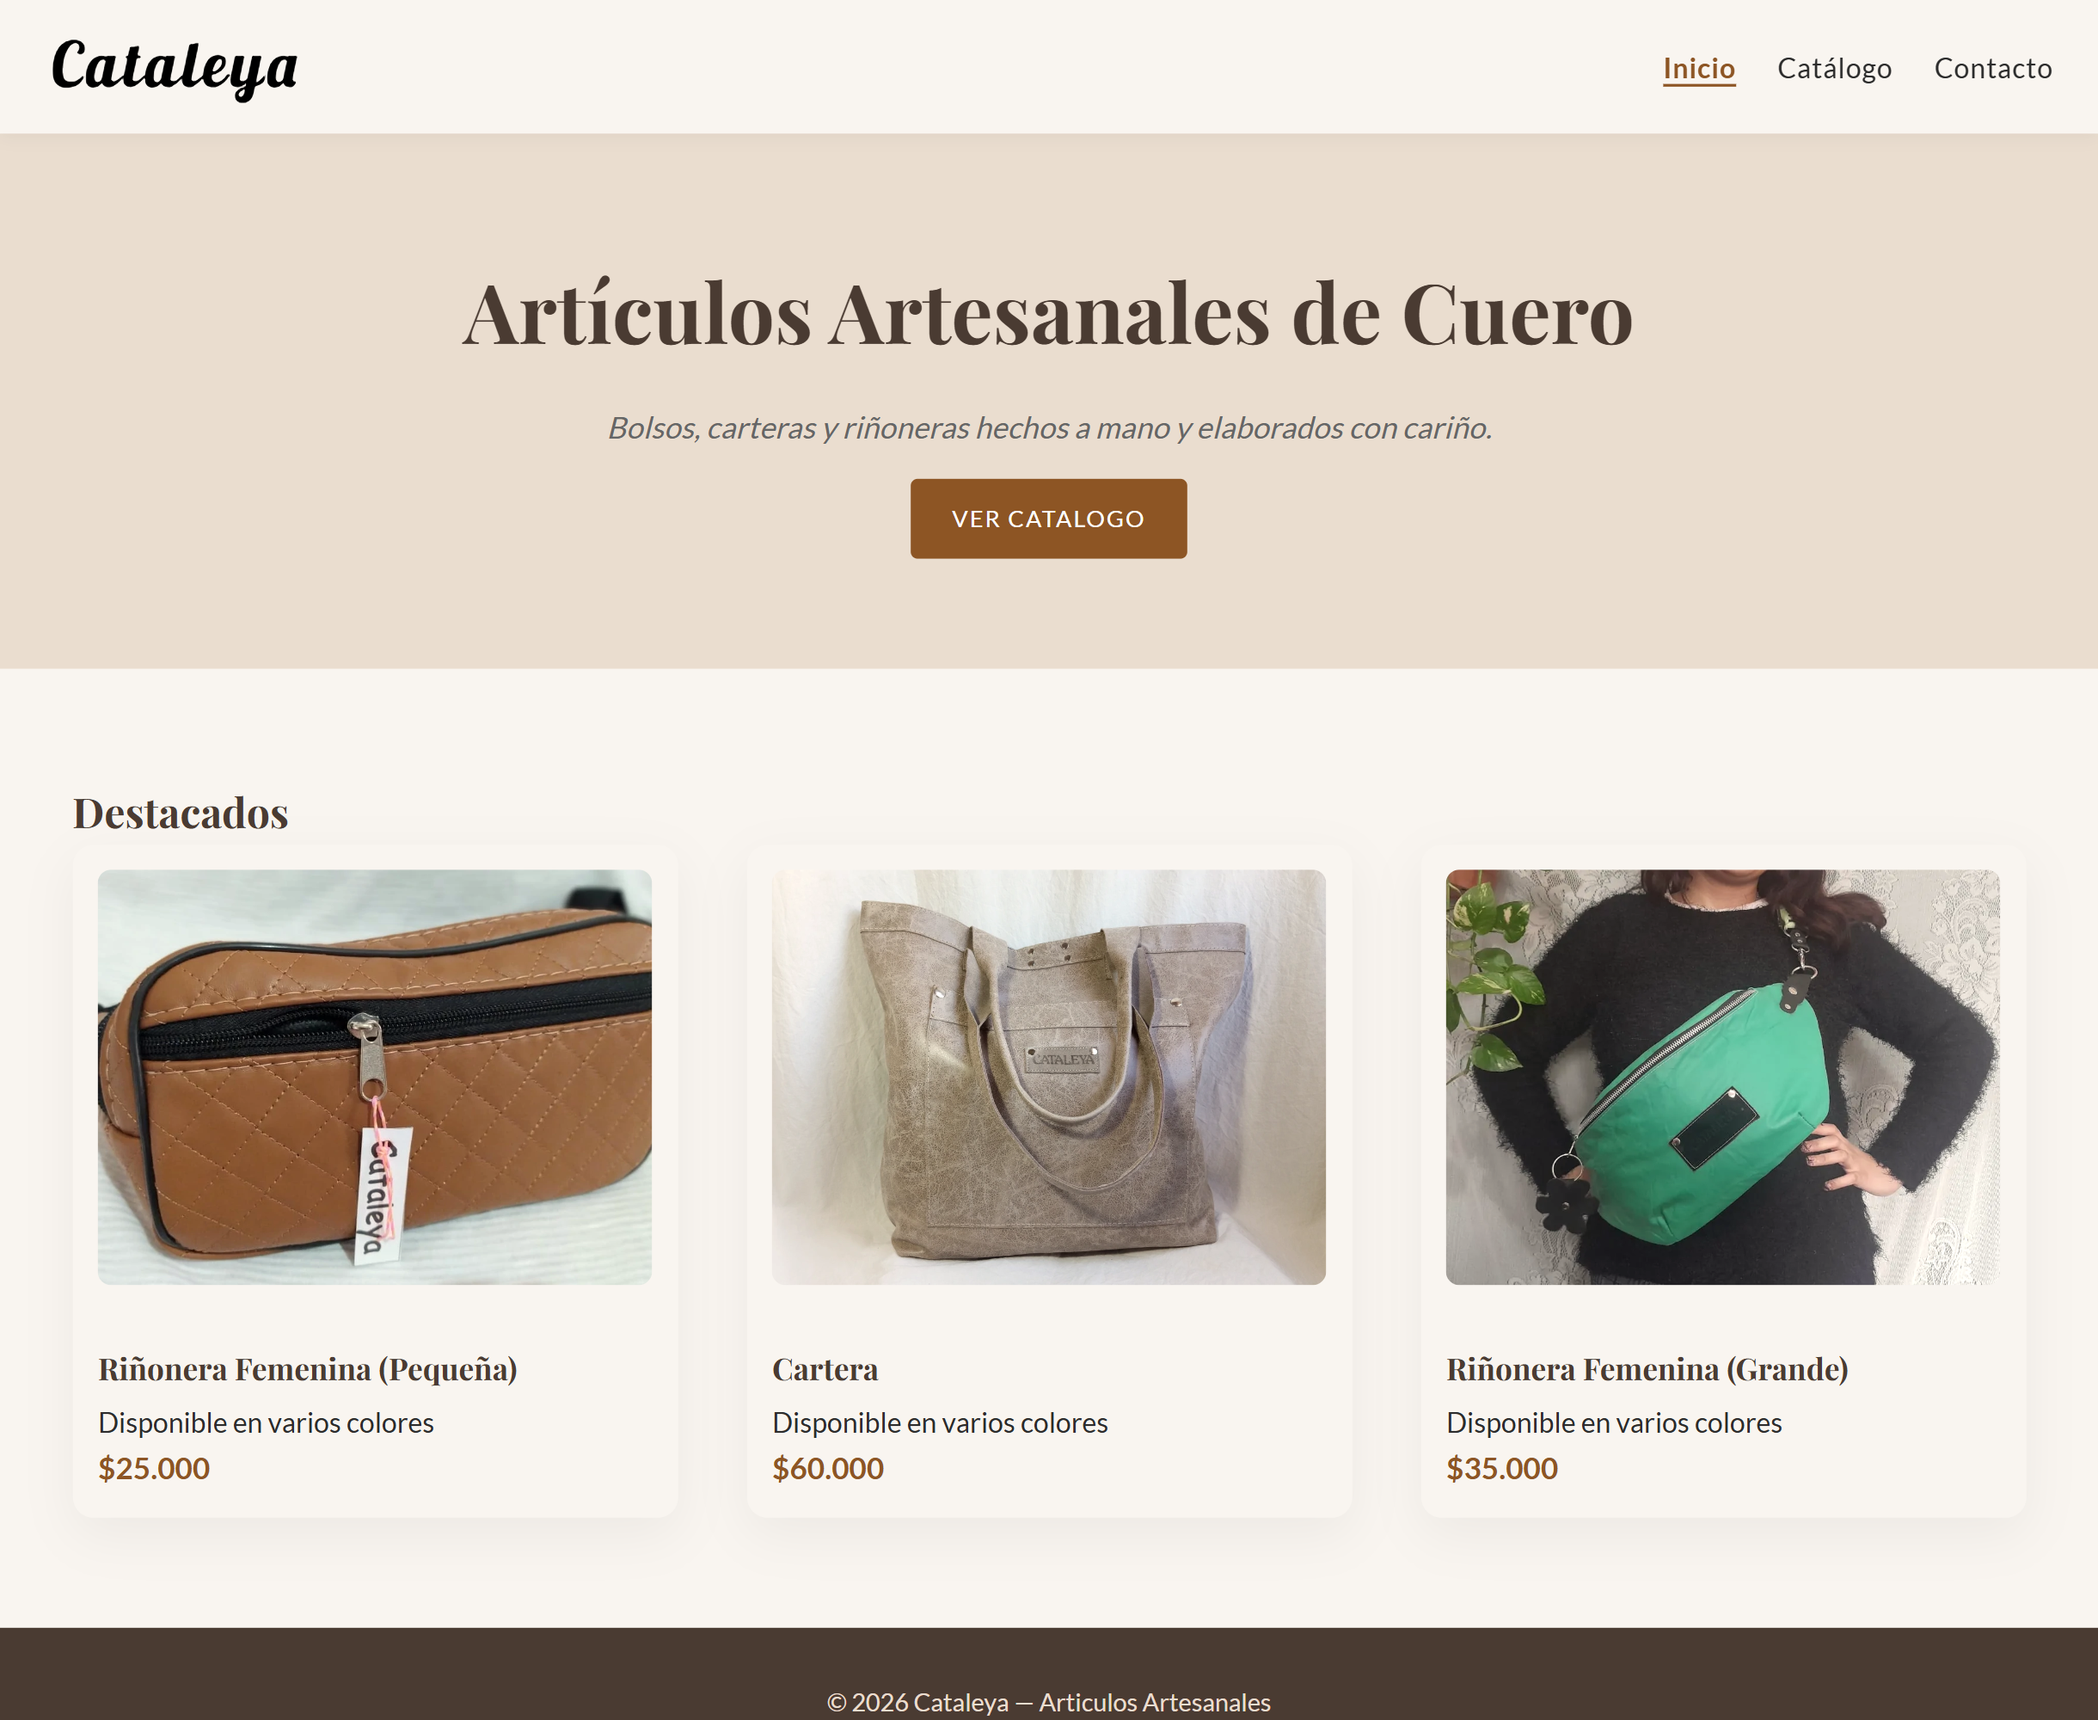
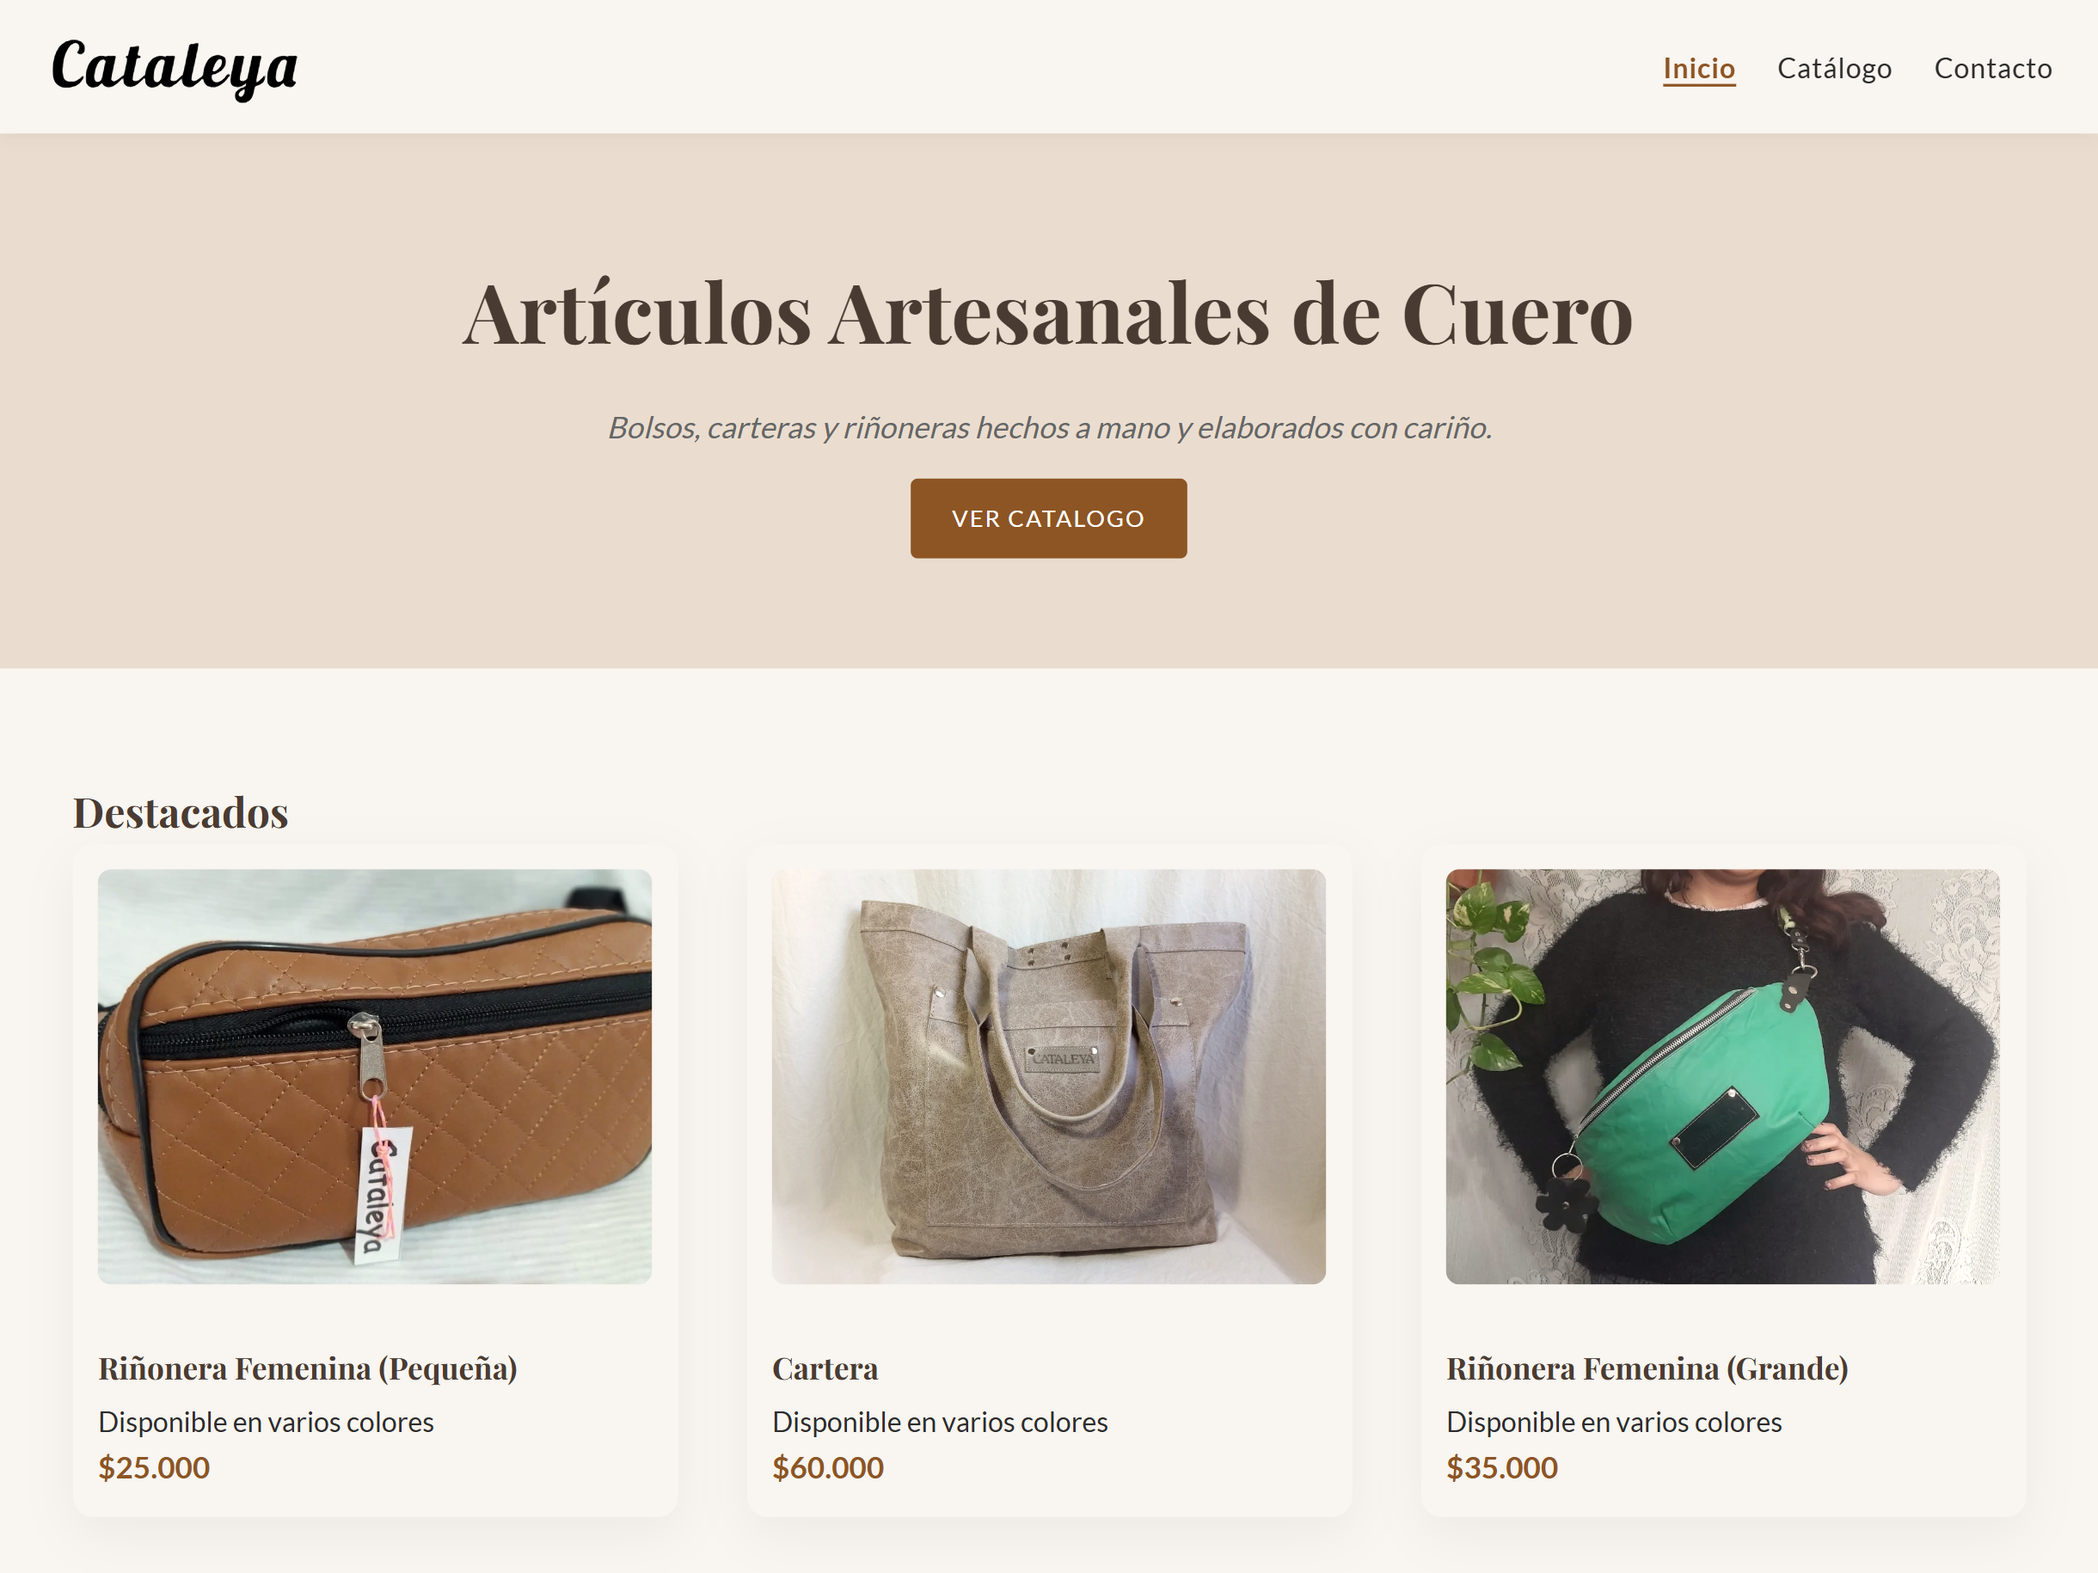
fix: image sizes

diff --git a/docs/es/projects/cataleya_shop.html b/docs/es/projects/cataleya_shop.html
@@ -54,35 +54,42 @@
 
             <div class="project-showcase">
                 <div class="showcase-image">
-                <img id="featureImage" alt="Vista previa de Cataleya" />
-                <video id="featureVideo" class="hidden" muted loop playsinline></video>
+                    <img id="featureImage" alt="Vista previa de Cataleya" />
+                    <video id="featureVideo" class="hidden" muted loop playsinline></video>
                 </div>
 
                 <div class="showcase-info">
-                <h3 id="featureTitle"></h3>
-                <p id="featureDescription"></p>
+                    <h3 id="featureTitle"></h3>
+                    <p id="featureDescription"></p>
 
-                <ul class="feature-list"></ul>
+                    <ul class="feature-list"></ul>
 
-                <div class="item project-card">
-                    <a
-                    href="https://mrmxyzptlk-jpg.github.io/artisan-leather-website/"
-                    class="btn-light"
-                    target="_blank"
-                    >
-                    <i class="fas fa-store"></i> Sitio en Vivo
-                    </a>
+                    <div class="item project-card">
+                        <a
+                        href="https://mrmxyzptlk-jpg.github.io/artisan-leather-website/"
+                        class="btn-light"
+                        target="_blank"
+                        >
+                        <i class="fas fa-store"></i> Sitio en Vivo
+                        </a>
 
-                    <a
-                    href="https://github.com/MrMxyzptlk-jpg/artisan-leather-website.git"
-                    class="btn-dark"
-                    target="_blank"
-                    >
-                    <i class="fab fa-github"></i> Código Fuente
-                    </a>
-                </div>
+                        <a
+                        href="https://github.com/MrMxyzptlk-jpg/artisan-leather-website.git"
+                        class="btn-dark"
+                        target="_blank"
+                        >
+                        <i class="fab fa-github"></i> Código Fuente
+                        </a>
+                    </div>
                 </div>
             </div>
+
+            <!-- IMAGE MODAL -->
+            <div class="image-modal" id="imageModal">
+                <span class="close-modal">&times;</span>
+                <img class="modal-content" id="modalImage">
+            </div>
+
         </div>
     </main>
 

diff --git a/docs/en/projects/cataleya_shop.html b/docs/en/projects/cataleya_shop.html
@@ -54,35 +54,42 @@
 
             <div class="project-showcase">
                 <div class="showcase-image">
-                <img id="featureImage" alt="Cataleya preview" />
-                <video id="featureVideo" class="hidden" muted loop playsinline></video>
+                    <img id="featureImage" alt="Cataleya preview" />
+                    <video id="featureVideo" class="hidden" muted loop playsinline></video>
                 </div>
 
                 <div class="showcase-info">
-                <h3 id="featureTitle"></h3>
-                <p id="featureDescription"></p>
+                    <h3 id="featureTitle"></h3>
+                    <p id="featureDescription"></p>
 
-                <ul class="feature-list"></ul>
+                    <ul class="feature-list"></ul>
 
-                <div class="item project-card">
-                    <a
-                    href="https://mrmxyzptlk-jpg.github.io/artisan-leather-website/"
-                    class="btn-light"
-                    target="_blank"
-                    >
-                    <i class="fas fa-store"></i> Live Site
-                    </a>
+                    <div class="item project-card">
+                        <a
+                        href="https://mrmxyzptlk-jpg.github.io/artisan-leather-website/"
+                        class="btn-light"
+                        target="_blank"
+                        >
+                        <i class="fas fa-store"></i> Live Site
+                        </a>
 
-                    <a
-                    href="https://github.com/MrMxyzptlk-jpg/artisan-leather-website.git"
-                    class="btn-dark"
-                    target="_blank"
-                    >
-                    <i class="fab fa-github"></i> Source
-                    </a>
-                </div>
+                        <a
+                        href="https://github.com/MrMxyzptlk-jpg/artisan-leather-website.git"
+                        class="btn-dark"
+                        target="_blank"
+                        >
+                        <i class="fab fa-github"></i> Source
+                        </a>
+                    </div>
                 </div>
             </div>
+
+            <!-- IMAGE MODAL -->
+            <div class="image-modal" id="imageModal">
+                <span class="close-modal">&times;</span>
+                <img class="modal-content" id="modalImage">
+            </div>
+
         </div>
     </main>
 

diff --git a/docs/scss/styles.css b/docs/scss/styles.css
@@ -486,7 +486,7 @@ main#home h1 {
                 transform: translate3d(100%, 0, 0);
     }
     .menu-branding .mypicture {
-        background: url(../img/profilePic.jpeg);
+        background: url(../img/profilePic_small.webp);
         width: 150px;
         height: 150px;
     }

diff --git a/docs/scss/_mobile.scss b/docs/scss/_mobile.scss
@@ -43,7 +43,7 @@
         transform: translate3d(100%, 0, 0);
 
         .mypicture {
-            background: url(../img/profilePic.jpeg);
+            background: url(../img/profilePic_small.webp);
             width: 150px;
             height: 150px;
         }
